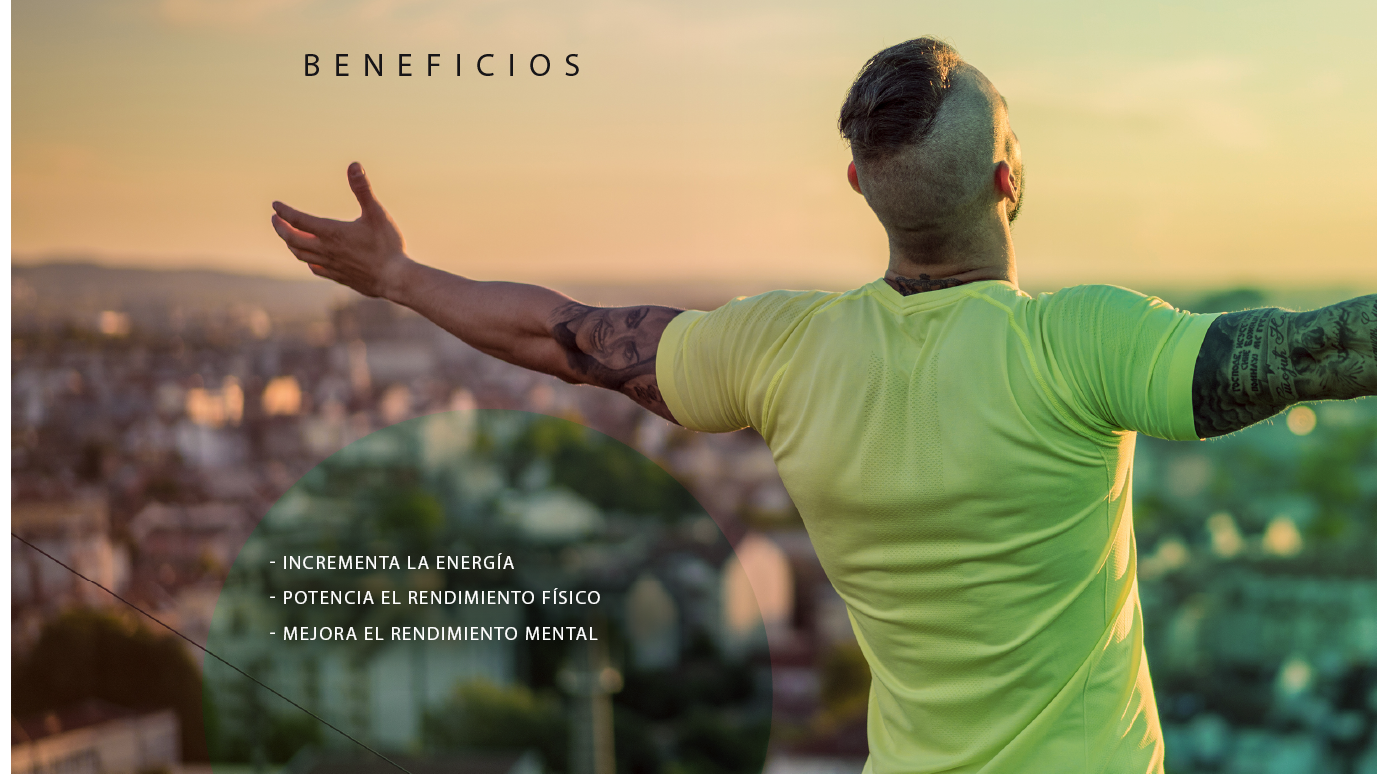
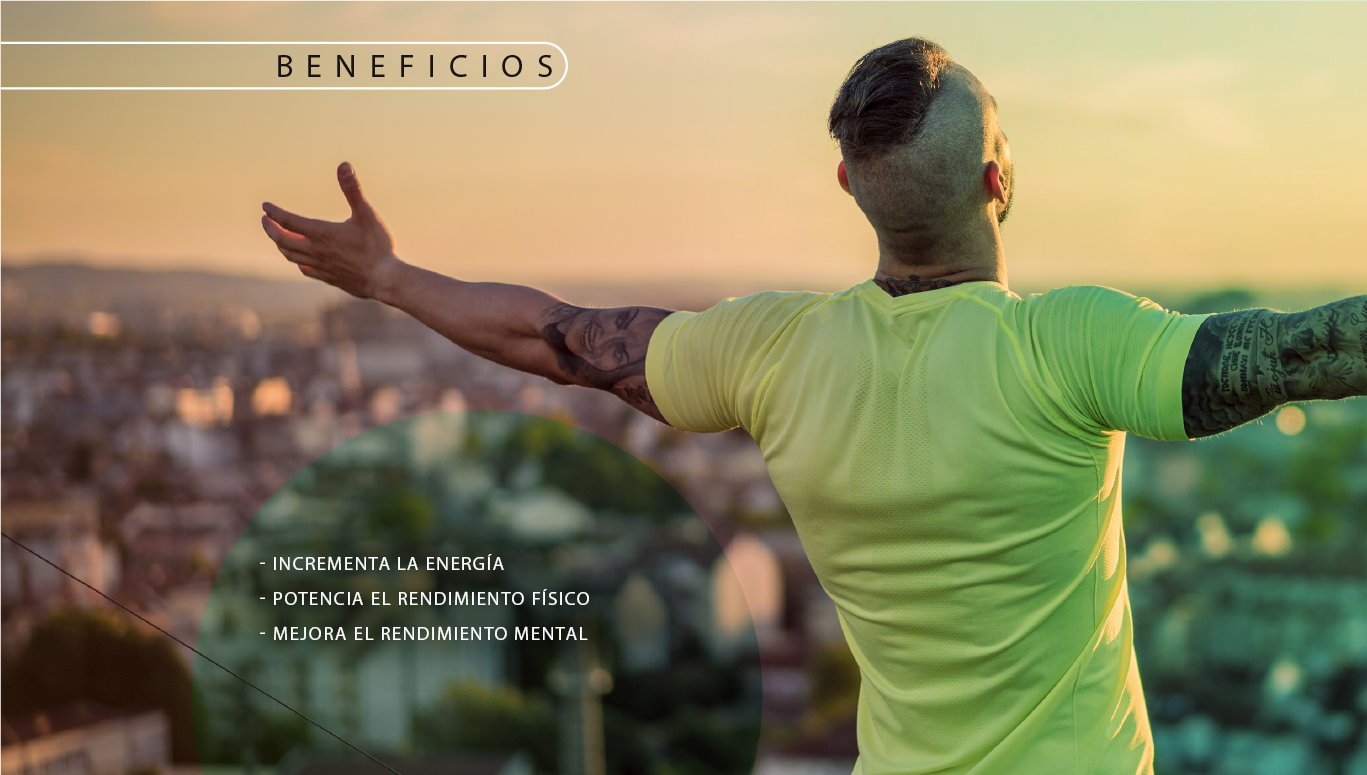
fix: image 100%height

diff --git a/src/components/Beneficios/Carousel/index.js b/src/components/Beneficios/Carousel/index.js
@@ -1,6 +1,9 @@
 import React, { useRef, useEffect } from 'react'
 import './styles.css'
 
+import { Parallax } from 'react-parallax';
+
+
 import img1 from '../../../../assets/image/beneficio1.png'
 import img2 from '../../../../assets/image/beneficio2.png'
 import img3 from '../../../../assets/image/beneficio3.png'
@@ -16,7 +19,7 @@ export const Carousel = () => {
             // obtenenemos el primer elemento del slideshow
             const primerElemento = slideshow.current.children[0];
             // Establecemos la transicionpara el slideshow
-            slideshow.current.style.transition = `800ms ease-out all`;
+            slideshow.current.style.transition = `1000ms ease-out all`;
 
             const slideSize = slideshow.current.children[0].offsetWidth;
             // Movemos el siguienteSlideshow 
@@ -59,16 +62,17 @@ export const Carousel = () => {
     }
 
     useEffect(() => {
-        intervaloslideshow.current = setInterval(() => {
-            next();
-        }, 5000);
+        // ese code lo hace para que recorra
+        // intervaloslideshow.current = setInterval(() => {
+        //     next();
+        // }, 5000);
 
-        slideshow.current.addEventListener('mouseenter', ()=> {
+        slideshow.current.addEventListener('mouseenter', () => {
             clearInterval(intervaloslideshow.current);
         });
 
         // resume 
-        slideshow.current.addEventListener('mouseleave', ()=> {
+        slideshow.current.addEventListener('mouseleave', () => {
             intervaloslideshow.current = setInterval(() => {
                 next();
             }, 5000);
@@ -78,10 +82,17 @@ export const Carousel = () => {
     return (
         <div className='Carousel-container' >
             <div className='Carousel-slide' ref={slideshow}>
-                <img src={img1} alt="beneficio1" ></img>
-                <img src={img2} alt="beneficio1" ></img>
-                <img src={img3} alt="beneficio1" ></img>
+                    <img className='Carousel-img1' src={img1} alt="beneficio1" ></img>
+                    <img className='Carousel-img2' src={img2} alt="beneficio1" ></img>
+                    <img className='Carousel-img3' src={img3} alt="beneficio1" ></img>
+
+
+                    {/* for parallax but no */}
+                    {/* <div className='Carousel-img1' alt="beneficio1" ></div>
+                    <div className='Carousel-img2' alt="beneficio1" ></div>
+                    <div className='Carousel-img3' alt="beneficio1" ></div> */}
             </div>
+
             <div className='Carousel-controles'>
                 <button onClick={prev} className='Carousel-controles-izquierda'>
                     <span>izquierda</span>
@@ -90,13 +101,6 @@ export const Carousel = () => {
                     <span>derecha</span>
                 </button>
             </div>
-            {/* <div className='Carousel-slide'>
-                <img src={img2} alt="beneficio1" ></img>
-            </div>
-            <div className='Carousel-slide'>
-                <img src={img3} alt="beneficio1" ></img>
-            </div> */}
-
         </div>
     )
 }

diff --git a/src/components/Beneficios/Carousel/styles.css b/src/components/Beneficios/Carousel/styles.css
@@ -1,26 +1,60 @@
 .Carousel-container{
     width: 100%;
     height: 100%;
-    background-color: aqua;
+    /* background-color: aqua; */
     overflow: hidden;
     
 }
 
 .Carousel-slide{
     width: 100%;
+    /* height: 1500px; */
     /* background-color: black; */
-    /* overflow: hidden; */
     display: flex;
     flex-wrap: nowrap;
     position: relative;
 }
+
 .Carousel-slide img{
     width: 100%;
-    height: 100vh;
+    min-width: 100%;
+    height: 100%;
+    
 }
-/* .Carousel-controles{
 
+
+/* for parallax */
+/* .Carousel-img1{
+    width: 100%;
+    min-width: 100%;
+    height: 100%;
+    background-image: url('../../../../assets/image/beneficio1.png');
+    background-attachment: fixed;
+    background-position: center;
+    background-repeat: no-repeat;
+    background-size: cover ; 
+}
+.Carousel-img2{
+    width: 100%;
+    min-width: 100%;
+    height: 100%;
+    background-image: url('../../../../assets/image/beneficio2.png');
+    background-attachment: fixed;
+    background-position: center;
+    background-repeat: no-repeat;
+    background-size: cover ; 
+}
+.Carousel-img3{
+    width: 100%;
+    min-width: 100%;
+    height: 100%;
+    background-image: url('../../../../assets/image/beneficio3.png');
+    background-attachment: fixed;
+    background-position: center;
+    background-repeat: no-repeat;
+    background-size: cover ; 
 } */
+
 
 .Carousel-controles-izquierda{
     position: absolute;

diff --git a/src/components/Beneficios/styles.css b/src/components/Beneficios/styles.css
@@ -1,21 +1,12 @@
 .Benenficios-container{
     position: relative;
-    background-color: blueviolet;
+    /* background-color: blueviolet; */
     width: 100%;
     height: auto;
 }
 
-.Benenficios-imagen{
+/* .Benenficios-imagen{
     width: 100%;
     height: 100%;
-}
+} */
 
-.Benenficios-flechaLeft{
-    position: absolute;
-    left: 203px;
-    top: 399px;
-    width: 74px;
-    height: 78px;
-    background-color: blueviolet;
-
-}

diff --git a/src/components/Beneficios/index.js b/src/components/Beneficios/index.js
@@ -8,9 +8,6 @@ export const Beneficios = () => {
       <section className='Benenficios-container'>
           {/* <img className='Benenficios-imagen' src={ require(`../../../assets/image/beneficio1.jpg`)} ></img> */}
           <Carousel />
-
-
-
       </section>
   )
 }
